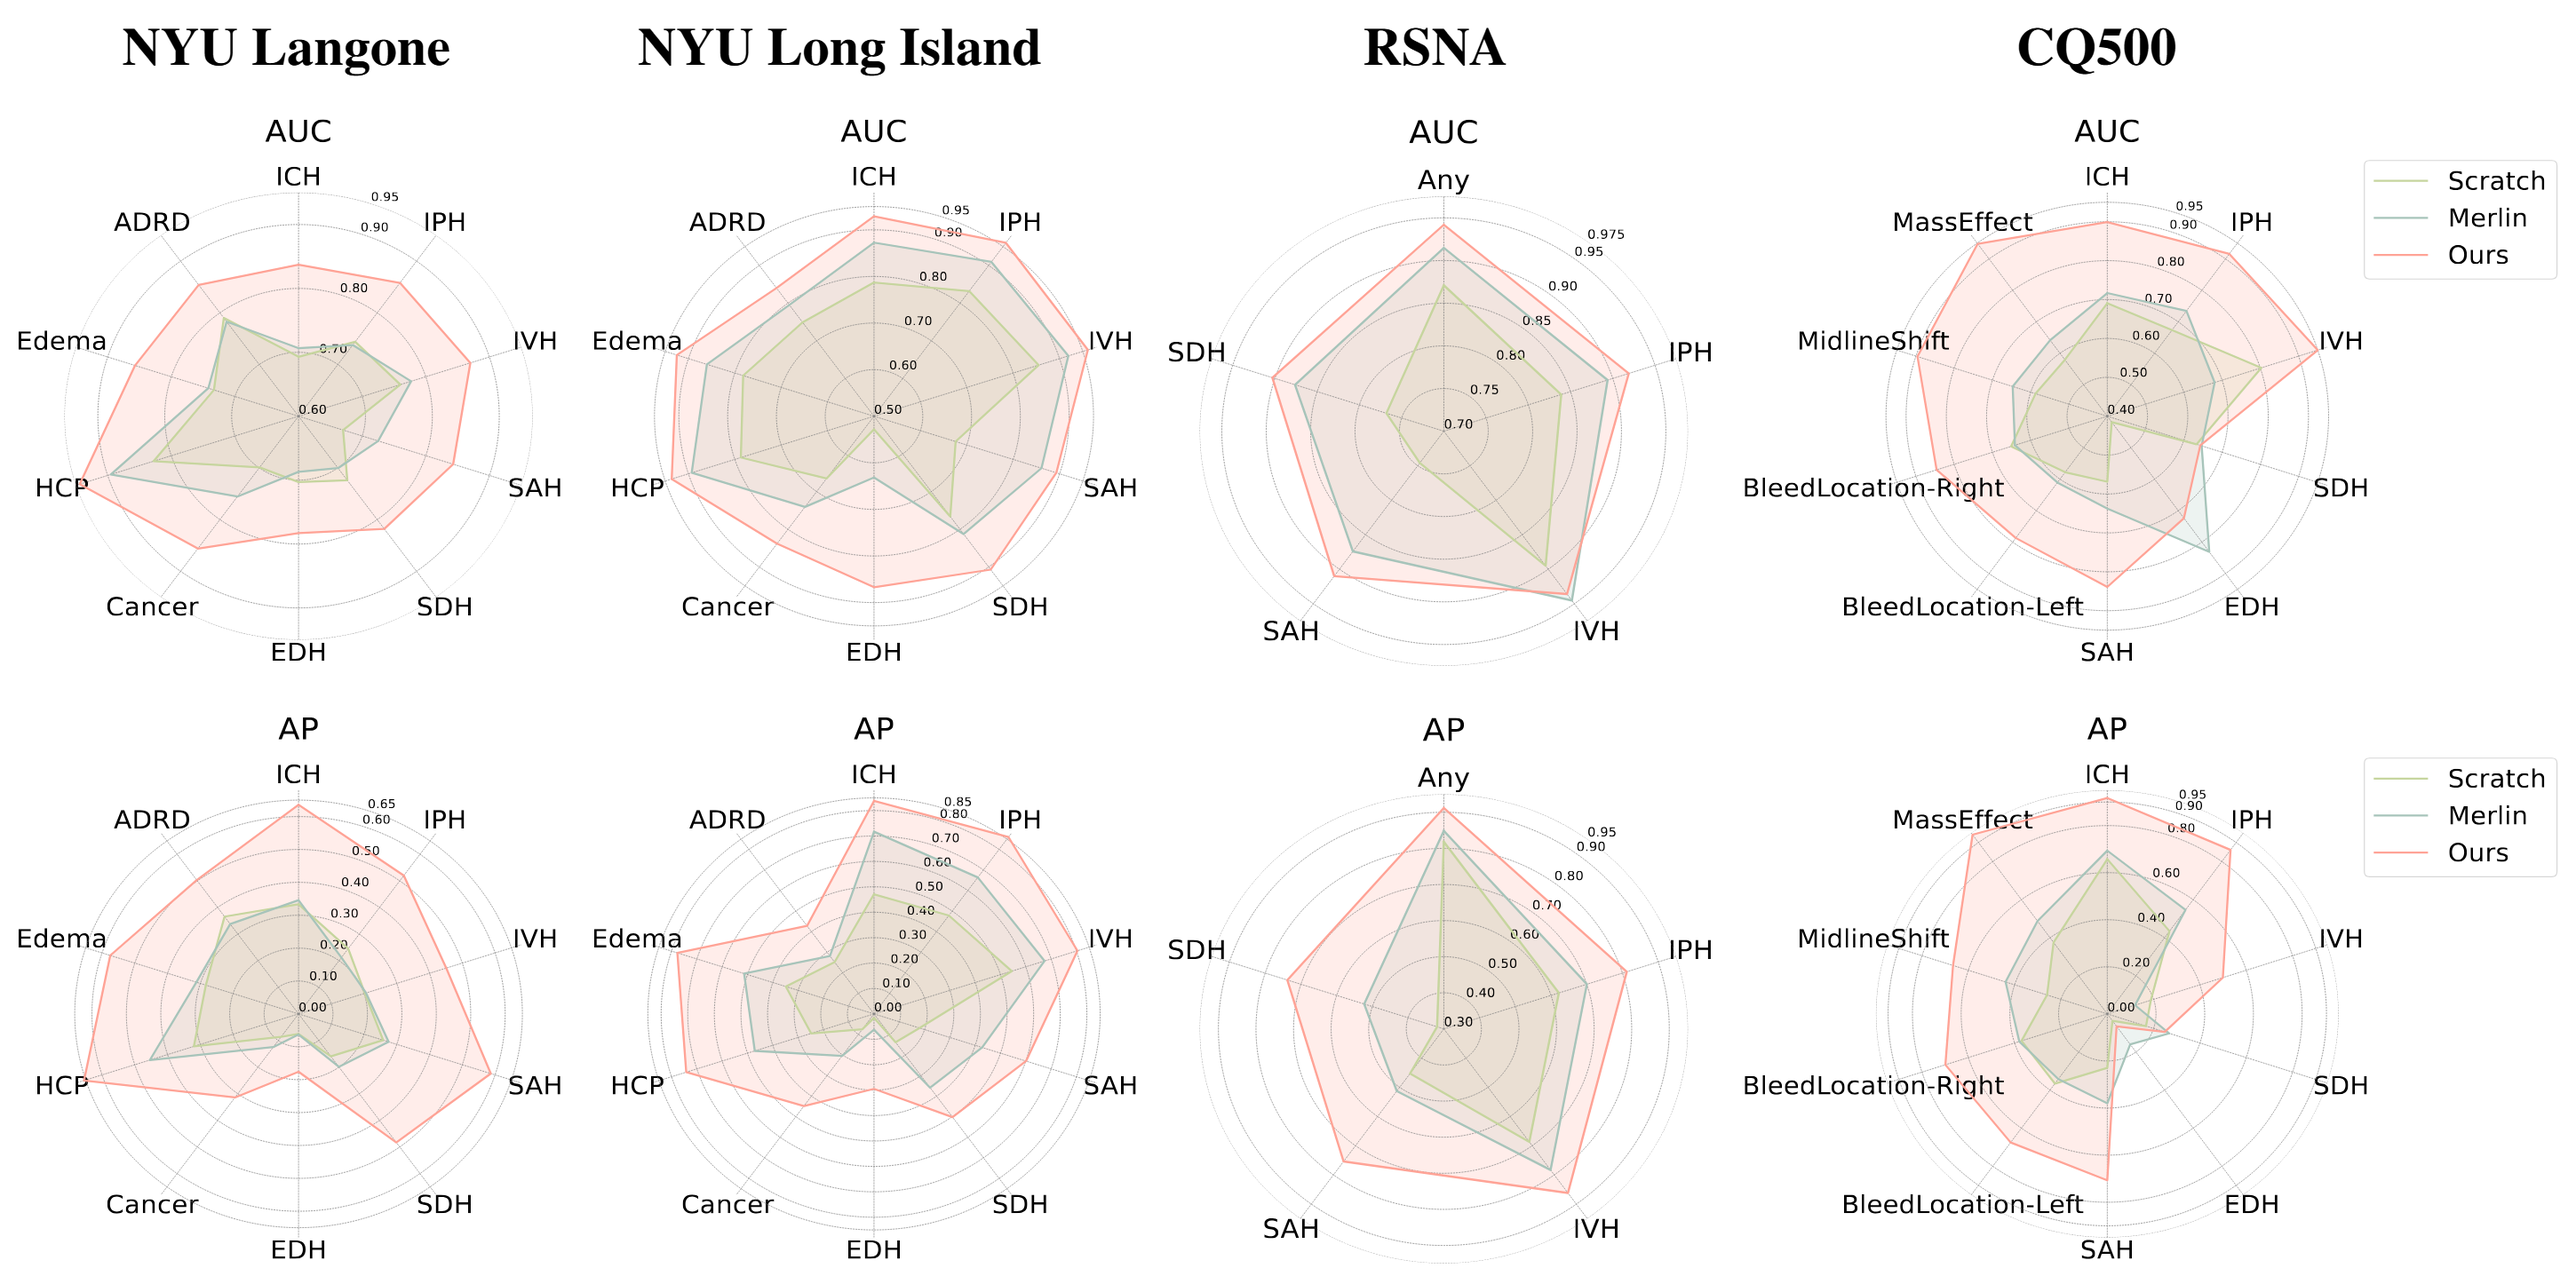
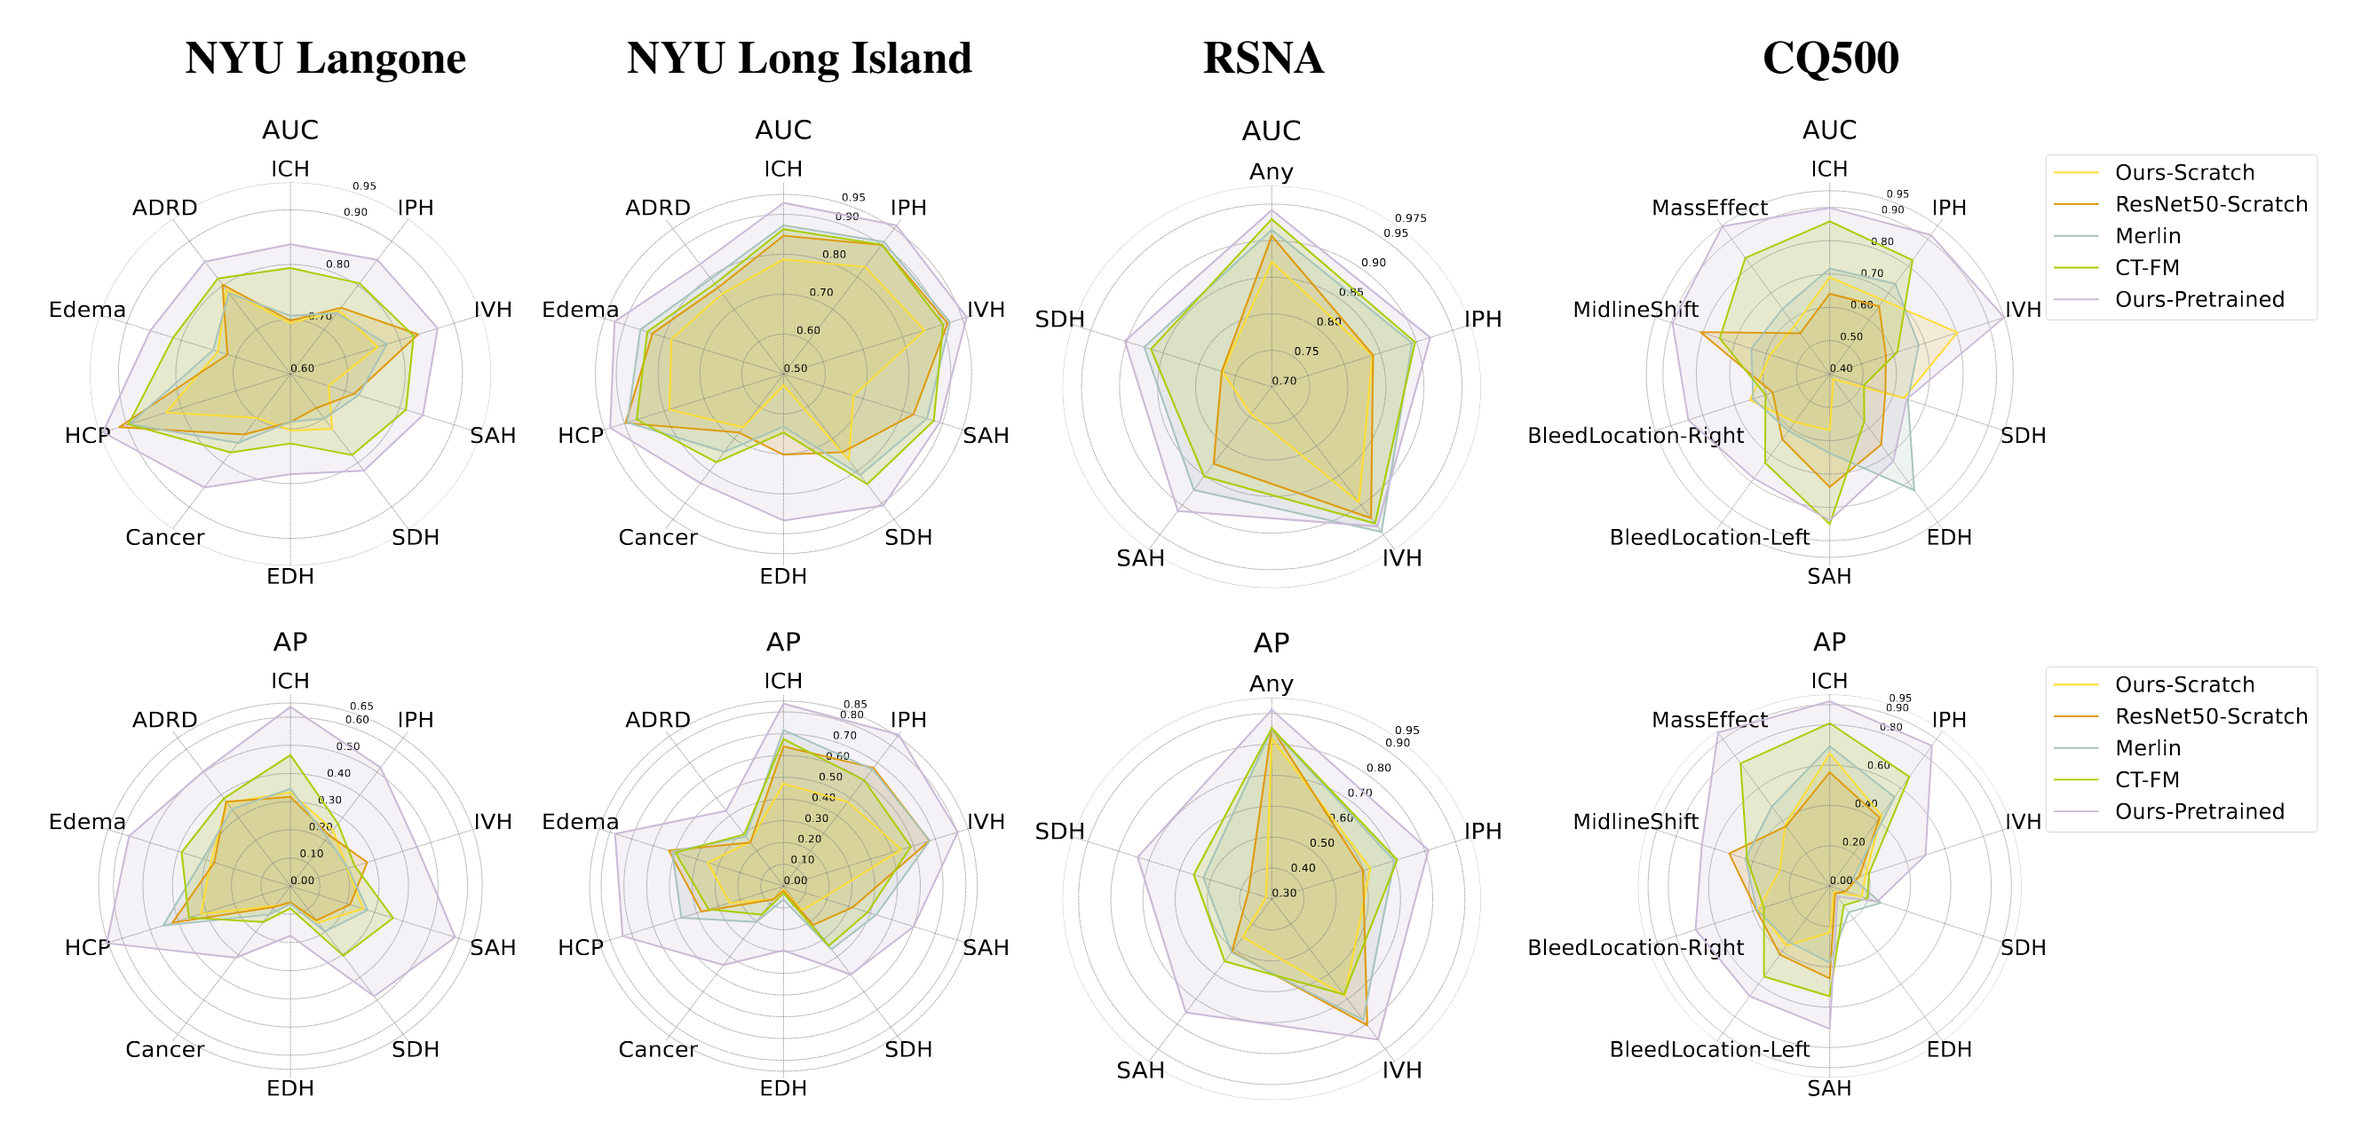
add comparison baseline

diff --git a/README.md b/README.md
@@ -90,13 +90,21 @@ torchrun --nnodes 1 --nproc_per_node 1 --master_port 12400 ../main_pretrain_mae.
 ```
 
 ## Comparisons and Benchmarks
-We present comparison among our model, [**Merlin**](https://arxiv.org/abs/2406.06512) (a 3D vision-language foundation model pre-trained on large-scale abdominal CT), [**Google CT Foundation**](https://github.com/Google-Health/imaging-research/tree/master/ct-foundation) (a 3D CT vision foundation model pre-trained on large-scale CT of different anatomy) and model trained from scratch in the radar plots, where we show our model outperforms others across the board. This highlights the success of our training pipeline and importance of our domain specific large-scale pre-training.
+We present comparison among our model, [**Merlin**](https://arxiv.org/abs/2406.06512) (a 3D vision-language foundation model pre-trained on large-scale abdominal CT), [**Google CT Foundation**](https://github.com/Google-Health/imaging-research/tree/master/ct-foundation) (a 3D CT vision foundation model pre-trained on large-scale CT of different anatomy), [**CT-FM**](https://github.com/project-lighter/CT-FM) and model trained from scratch in the plots on multi-label diseases diagnosis and hemorrhage subtypes volume-to-volume retrieval tasks, where we show our model outperforms others across the board. This highlights the success of our training pipeline and importance of our domain specific large-scale pre-training. We additional show comparison on alternative modeling methods on Attention-Based Multiple-Instance-Learning (AB-MIL) and Mean Pooling with 2D foundation model (DINOv3) and directly using 3D Video Foundation Model (VJEPA2), where we show consistent improved performance on our model.
 
 #### Fine-Tuning Comparison <br>
 <img src="./images/performance1.png" width="900px"/>
 
 #### Linear Probing Comparison ([**Google CT Foundation**](https://github.com/Google-Health/imaging-research/tree/master/ct-foundation) only allow API access) <br>
 <img src="./images/performance2.png" width="475px" alt="Performance Image" style="display: block; margin-left: 160px;">
+
+#### Volume-to-Volume Retrieval Comparison <br>
+<img src="./images/mAP_RSNA_Retrieval.png" width="240px" alt="RSNA Retrieval" style="display:inline-block; margin: 0 10px;" />
+<img src="./images/mAP_CQ500_Retrieval.png" width="310px" alt="CQ500 Retrieval" style="display:inline-block; margin: 0 10px;" />
+
+### Alterntaive Modeling Methods Comparison <br>
+<img src="./images/performance3.png" width="400px" alt="Alterntiave 1" style="display:inline-block; margin: 0 10px;" />
+<img src="./images/performance4.png" width="400px" alt="Alterntiave 2" style="display:inline-block; margin: 0 10px;" />
 
 ## Attention Map Visualization
 We present our model attention map visualization here across slices of scan for different diseases, where our model can attend to important region of diagnosing diseases.
@@ -106,10 +114,8 @@ We present our model attention map visualization here across slices of scan for 
 ## Scans Filtering Criterion
 We present the filtering criterion in combination of Study Description, Kilovoltage Peak (kVp) and Convolution Types for selecting relevant high quality CT scans on building our foundation model in [**./scans_filter_criterion/scans_filter_criterion.csv**](./scans_filter_criterion/scans_filter_criterion.csv).
 
-
 ## Datasets
 Dataset splits with labels for CQ500 and RSNA are organized in their respective directories under [**./datasets**](./datasets), with the root directory removed from the image paths to facilitate reproducing our experimental results.
-
 
 ## Model Weights Sharing
 Due to the possibility of inferring private patient facial features from Head CT data, we apologize that public release of the model weights is not permitted. The model weights are only available upon request after signing institutional agreement. Requests for model weights should be sent to the corresponding author and the NYU Langone Data Sharing Strategy Board (DSSB) Committee (DataSharing@nyulangone.org).
